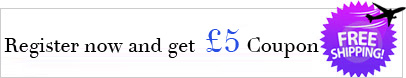
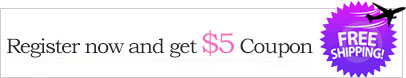
wangjian 2013-10-21
git-svn-id: https://sp-b2cv1.googlecode.com/svn/ShopHS@2037 c8aa77e7-4d14-485d-9416-cb5e655923dd

diff --git a/trunk/ShopHS/trunk/ShopHS/war/style/css/common.css b/trunk/ShopHS/trunk/ShopHS/war/style/css/common.css
@@ -1355,7 +1355,7 @@ li.scart_c_w_r {
 	width: 400px;
 	float: right;
 	padding: 25px 60px 10px 10px;
-	background-color: #efefef;
+	background-color: #FFF4F8;
 }
 
 /******************************************************************misc****************************************************************************/
@@ -2240,14 +2240,14 @@ li.scart_c_w_r {
 }
 
 .dailyMadness-save .save-title {
-	color: #005ec2;
+	color: #FA8AC4;
 	font-size: 18px;
 	font-weight: bold;
 	margin-bottom: -5px;
 }
 
 .dailyMadness-save .save-num {
-	color: #0053ac;
+	color: #F64E84s;
 	font-size: 28px;
 }
 
@@ -2258,6 +2258,7 @@ li.scart_c_w_r {
 	color: #fff;
 	font-size: 12px;
 	font-weight: bold;
+	padding-left:5px;
 	height: 38px;
 	line-height: 32px;
 	position: absolute;
@@ -2497,13 +2498,12 @@ li.scart_c_w_r {
 }
 
 .product-shopping {
-	background: none repeat scroll 0 0 #F5F5F5;
-	box-shadow: 2px 2px 6px #AAAAAA;
+	background: none repeat scroll 0 0 #fff;
+	box-shadow: 2px 2px 6px #FFD7F1;
 	float: right;
 	margin-right: 3px;
 	padding-bottom: 8px;
 	padding-left: 8px;
-	padding-right: 4px;
 	width: 192px;
 }
 
@@ -2512,10 +2512,9 @@ li.scart_c_w_r {
 }
 
 .product-shopping .product-properties {
-	background: none repeat scroll 0 0 #F5F5F5;
-	border: 1px solid #F5F5F5;
-	margin: 8px 0;
-	padding: 2px;
+background: none repeat scroll 0 0 #FFF2F9;
+border: 1px solid #F5F5F5;s
+padding: 0px 6px;
 }
 
 .product-shopping .addtocart {

diff --git a/trunk/ShopHS/trunk/ShopHS/war/style/css/main.css b/trunk/ShopHS/trunk/ShopHS/war/style/css/main.css
@@ -10,7 +10,7 @@
 	overflow:hidden;
 }
 .web_footer_block01 .web_footer_text01 {
-    background: url("/style/image/11.gif") no-repeat 20px 0;
+    background: url("/style/image/zan1.jpg") no-repeat 20px 0;
     padding: 0 0 0 12px;
     width: 300px;
 	float:left;
@@ -18,7 +18,7 @@
 }
 
 .web_footer_block01 .web_footer_text02 {
-    background: url("/style/image/1.gif") no-repeat 20px 0;
+    background: url("/style/image/kefu.jpg") no-repeat 20px 0;
     padding: 0 0 0 12px;
     width: 302px;
 	float:left;
@@ -26,7 +26,7 @@
 }
 
 .web_footer_block01 .web_footer_text03 {
-    background: url("/style/image/3.gif") no-repeat 20px 0;
+    background: url("/style/image/safeshopping.jpg") no-repeat 20px 0;
     padding: 0 0 0 12px;
     width: 307px;
 	float:left;
